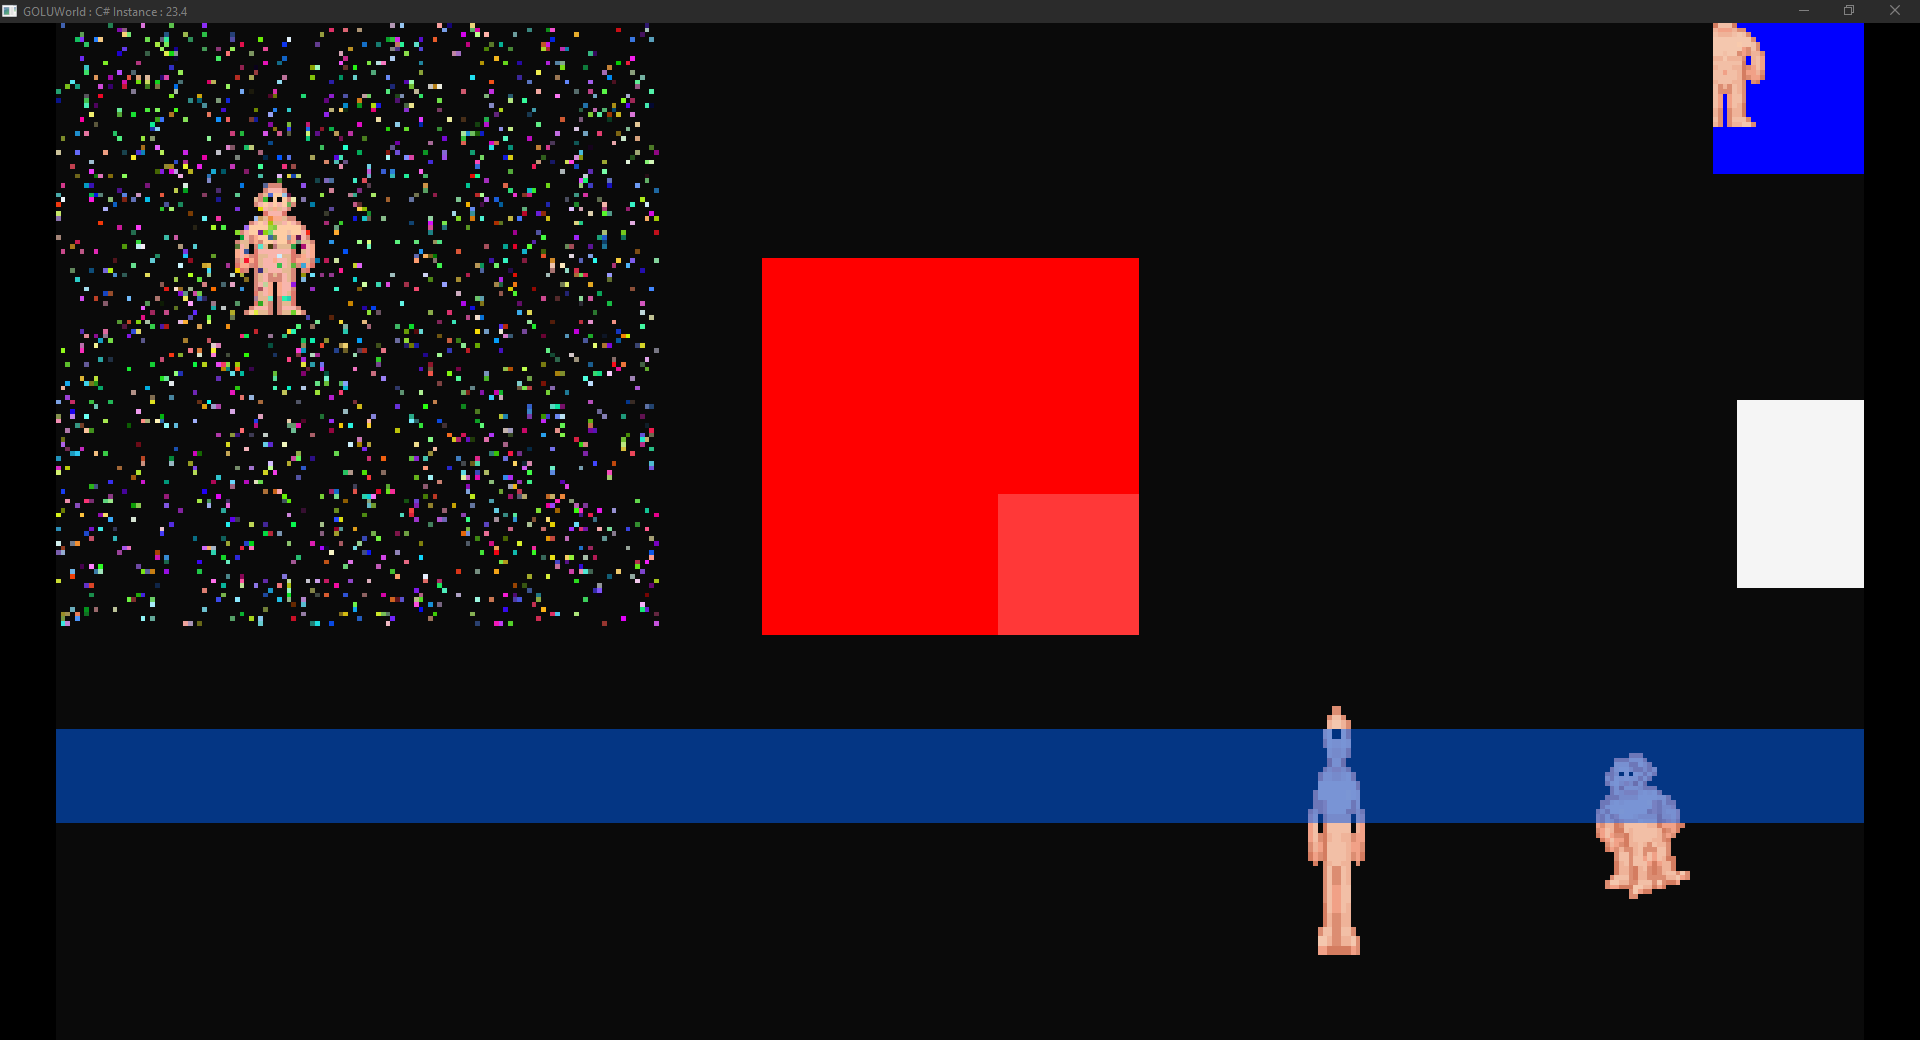
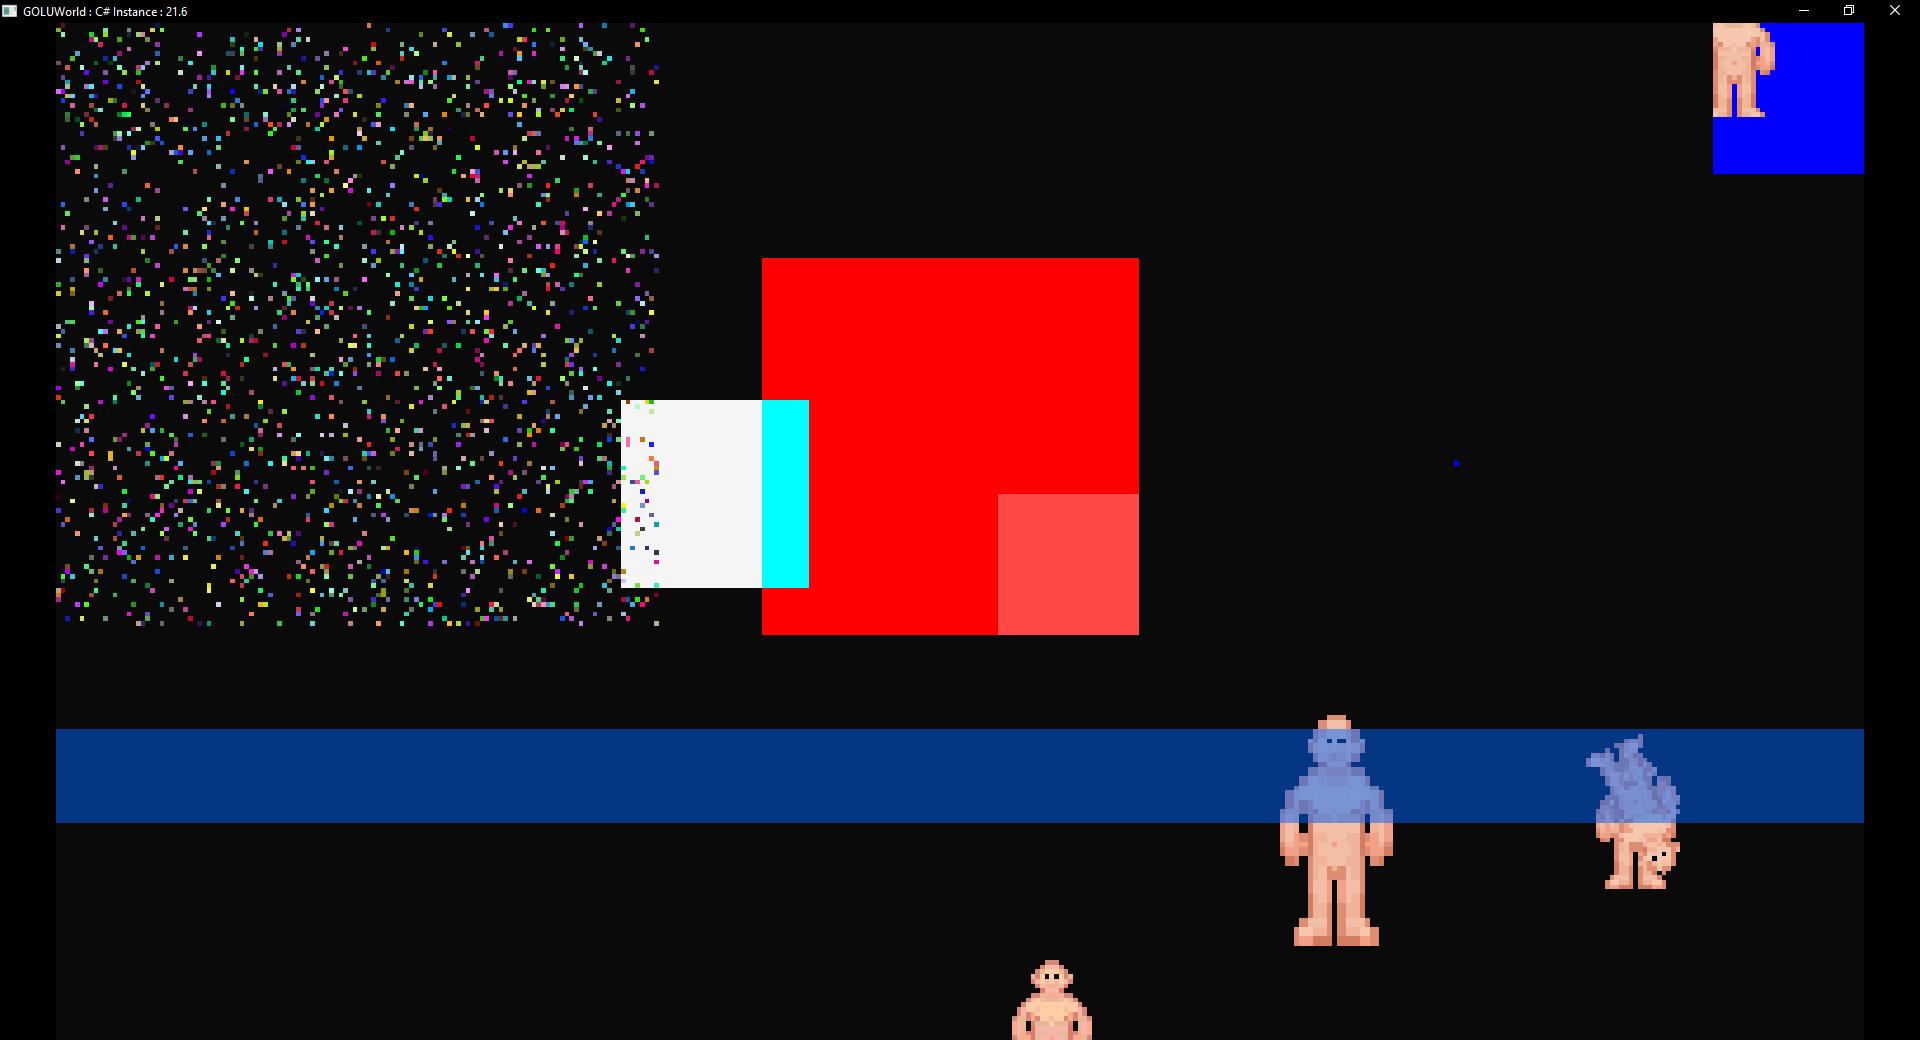
input

diff --git a/GOLUWorld/Game/00_Bridge.js b/GOLUWorld/Game/00_Bridge.js
@@ -37,13 +37,36 @@ Bridge.Hook.Start = function(ThatEXE, ScreenSizeW, ScreenSizeH, FrameBuffer){
     Game.Start();
 }
 
-Bridge.Hook.Cycle = function(DT, FPS){
+Bridge.Hook.Cycle = function(DT, FPS, MouseX, MouseY){
     Game.DT = DT;
     Game.FPS = FPS;
+
+    Input.Mouse.Position[0] = MouseX;
+    Input.Mouse.Position[1] = MouseY;
     
     TEST(DT);
 }
 
 Bridge.Hook.WindowTitle = function(){
     return Game.GenerateWindowTitle();
+}
+
+Bridge.Hook.KeyDown = function(Key){
+    Key = Key.toLowerCase();
+    
+    Input.Keys[Key] = true;
+}
+
+Bridge.Hook.KeyUp = function(Key){
+    Key = Key.toLowerCase();
+    
+    Input.Keys[Key] = false;
+}
+
+Bridge.Hook.MouseButtonDown = function(Button){
+    Input.Mouse.Buttons[Button] = true;
+}
+
+Bridge.Hook.MouseButtonUp = function(Button){
+    Input.Mouse.Buttons[Button] = false;
 }

diff --git a/GOLUWorld/Game/99_Test.js b/GOLUWorld/Game/99_Test.js
@@ -4,7 +4,11 @@ var posX = 0;
 const TEST = function(DT) {
     Tick += DT;
 
-    Graphic.Clear(10, 10, 10);
+    if(Input.KeyIsPressed("w")){
+        Graphic.Clear(10, 100, 10);
+    }else{
+        Graphic.Clear(10, 10, 10);   
+    }
 
     for(let i = 0; i < 2000; i++){
         Graphic.SetPixel(Math.floor(Math.random() * 128), Math.floor(Math.random() * 128), Math.floor(Math.random() * 255), Math.floor(Math.random() * 255), Math.floor(Math.random() * 255));
@@ -60,4 +64,6 @@ const TEST = function(DT) {
     Graphic.Effect(GRAPHIC_EFFECT_INVERT, () => {
         Graphic.DrawRect(intPosX, 80, intPosX + 40, 80 + 40, 255, 255, 255);
     });
+    
+    Graphic.SetPixel(Input.Mouse.Position[0], Input.Mouse.Position[1], 0, 0, 255);
 }

diff --git a/GOLUWorld/Game/01_Main.js b/GOLUWorld/Game/01_Main.js
@@ -45,3 +45,19 @@ GMath.CosFast = function(Rad){
 // ----------------------------------------------------------------------
 
 const Input = {}
+
+Input.Keys = {}
+
+Input.KeyIsPressed = function(Key){
+    return Input.Keys[Key] === true;
+}
+
+Input.Mouse = {}
+
+Input.Mouse.Buttons = {}
+
+Input.MouseIsPressed = function(Button){
+    return Input.Mouse.Buttons[Button] === true;
+}
+
+Input.Mouse.Position = [0, 0];

diff --git a/GOLUWorld/Program.cs b/GOLUWorld/Program.cs
@@ -2,6 +2,7 @@
 using System.Text;
 using Jint.Native;
 using Silk.NET.OpenGL;
+using WLI_Input;
 using WLO;
 using WLO.GPU;
 using WLO.Math;
@@ -188,6 +189,30 @@ void main(){
             }catch(Exception e){
                 throw new Exception("Произошла ошибка при запуске игры JS!", e);
             }
+
+            Window.Keyboard.OnKey += (Key, Down) => {
+                if(Down){
+                    if(Key == WLI_Input.Keyboard.Key.Escape){
+                        Window.Mouse.IsLocked = false;
+                    }
+                    
+                    JS.Call("Bridge.Hook.KeyDown", [Key.ToString()]);
+                }else{
+                    JS.Call("Bridge.Hook.KeyUp", [Key.ToString()]);
+                }
+            };
+
+            Window.Mouse.OnButton += (Button, Down) => {
+                if(Down){
+                    if(!Window.Mouse.IsLocked){
+                        Window.Mouse.IsLocked = true;
+                    }
+                    
+                    JS.Call("Bridge.Hook.MouseButtonDown", [Button.ToString()]);
+                }else{
+                    JS.Call("Bridge.Hook.MouseButtonUp", [Button.ToString()]);
+                }
+            };
             
             // ----------------------------------------------------------------------
 
@@ -199,9 +224,18 @@ void main(){
 
                 if(WL.Thread.LimitByDeltaTime(TargetDT, ref DTI__)){
                     DeltaTimeInfo DTI = DTI__!.Value;
+
+                    Vector2I WindowSize = Window.Size;
+                    float Scale = WL.Math.MinF((float)WindowSize.W / ScreenSize.W, (float)WindowSize.H / ScreenSize.H);
+
+                    float OffsetX = (WindowSize.W - ScreenSize.W * Scale) * 0.5f;
+                    float OffsetY = (WindowSize.H - ScreenSize.H * Scale) * 0.5f;
+
+                    float MouseGameX = (Window.Mouse.Position.X - OffsetX) / Scale;
+                    float MouseGameY = (Window.Mouse.Position.Y - OffsetY) / Scale;
                     
                     try{
-                        JS.Call("Bridge.Hook.Cycle", [DTI.DT, DTI.FPS]);
+                        JS.Call("Bridge.Hook.Cycle", [DTI.DT, DTI.FPS, MouseGameX, MouseGameY]);
                     }catch(Exception e){
                         WL.Logger.Error("Произошла ошибка в игровом цикле!", e);
                     }
